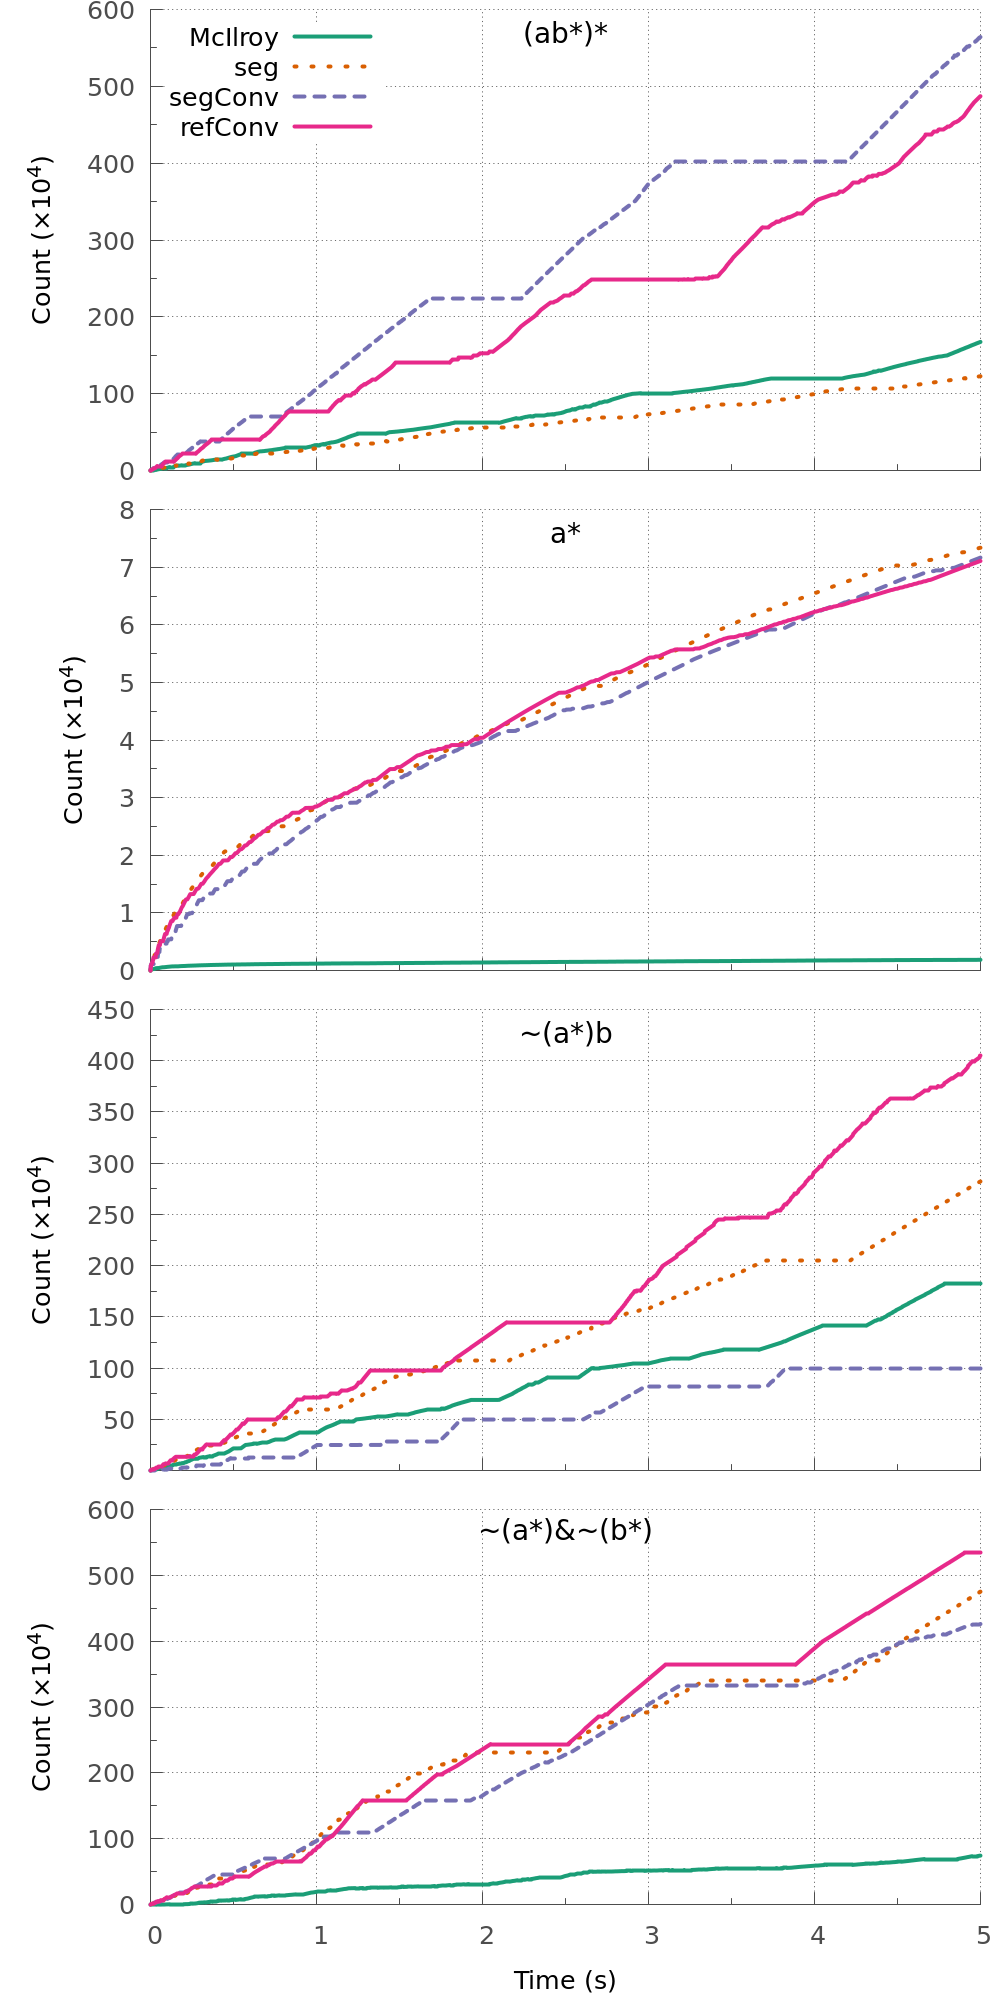
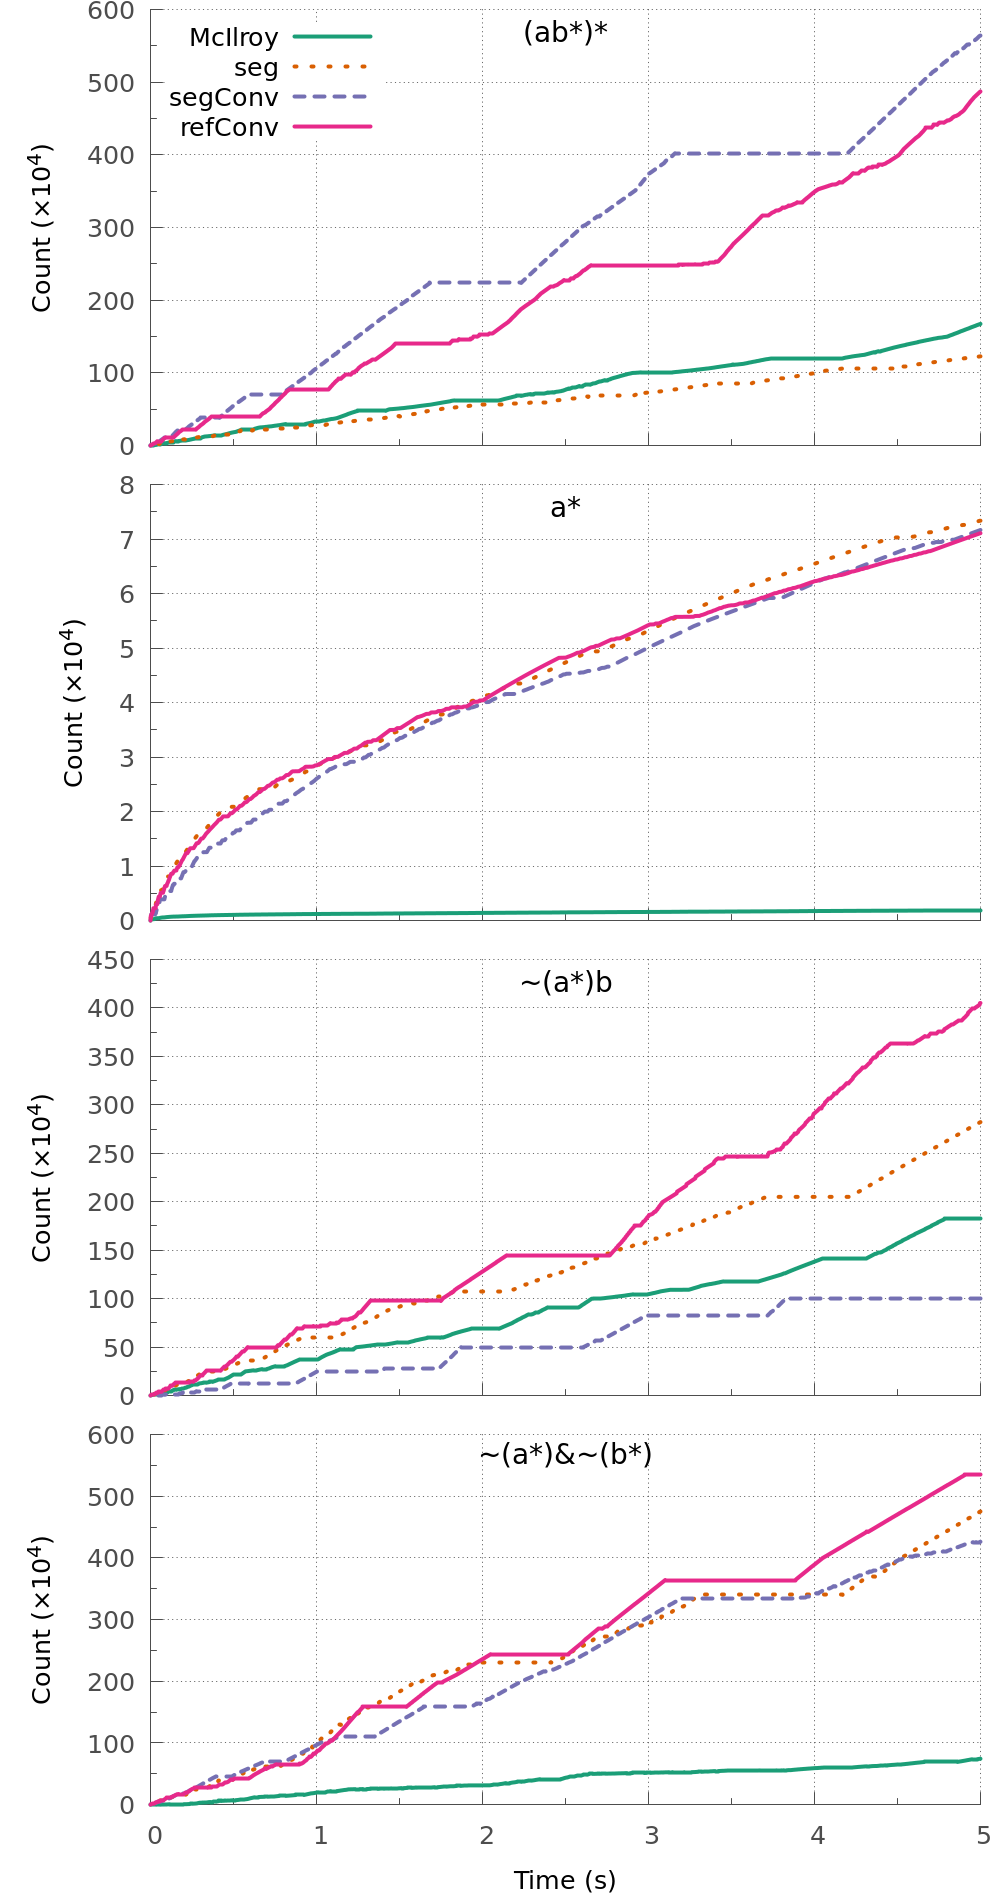
Make it fit.

diff --git a/ocaml.tex b/ocaml.tex
@@ -3,7 +3,7 @@
 
 \lstset{language=[Objective]Caml}
 
-We also implemented the complete
+We also implemented our
 language generation algorithm in \ocaml.
 % The \ocaml version only implements the ``latest'' version of the
 % algorithm with a segmented representation, fast backward lookup and convolutions
@@ -91,12 +91,12 @@ end
 \autoref{code:sigs:word} contains the signature for words.
 It provides
 the empty word (for \code{One}),
-singleton words (for \code{Atom}), and to append two words.
+singleton words (for \code{Atom}), and append.
 Neither an ordering nor a length operation is needed:
 Comparison is encapsulated in the segment
 data structure and the length of a word is the index of the segment in
 which it appears.
-
+%
 This signature is satisfied by the \ocaml \code{string}
 type (\ie arrays of bytes), arrays, lists of characters, or ropes. The
 type of individual characters is unrestricted.
@@ -106,8 +106,7 @@ type of individual characters is unrestricted.
 \autoref{code:sigs:segment} contains the signature for segments.
 % The first group of operations creates and tests for empty segments and
 % singleton segments. 
-The main requirement is to support the operations on power series as described in \autoref{sec:gener-cross-sect}.
-We also requires the set operations
+The main requirement is to support the operations on power series as described in \autoref{sec:gener-cross-sect} and the set operations
 \code{union}, \code{inter} and \code{inter}.
 %
 The product described in \autoref{eq:1} is decomposed in two parts:
@@ -119,7 +118,7 @@ The product described in \autoref{eq:1} is decomposed in two parts:
   by invocations of \code{append}.
 \end{itemize}
 %
-Experimentation with transient data-structures require s
+Experimentation with transient data-structures requires
 an explicit \code{memoize} function that avoids recomputing segments accessed
 multiple times. 
 %
@@ -317,7 +316,7 @@ over thunk lists by using a growing vector as cache.
 %
 Such a memoization function incurs a linear cost on enumerations. To test
 if this operation is worthwhile we implemented two modules:
-\code{ThunkList} where memoization is the identity and \code{ThunkListMemo}
+\code{ThunkList} without memoization and \code{ThunkListMemo}
 with the implementation described above.
 
 \paragraph{Lazy Lists}
@@ -338,8 +337,8 @@ We implemented a \code{LazyList} functor which is identical to
 
 As the main operations on segments are set operations, one might 
 expect a set implementation to perform well. We implemented segments as sets
-of words using \ocaml's built-in \code{Set} module. \ocaml sets are implemented
-using balanced binary trees.
+of words using \ocaml's built-in \code{Set} module which relies on
+balanced binary trees.
 The only operations not implemented by \ocaml's standard library are
 the n-way merge and the product.
 %, which can be implemented using folds and unions.
@@ -351,38 +350,29 @@ with a character and each node may contain a value. Tries are commonly used
 as maps from words to values where a word belongs to its domain if there is a
 path reaching a value labeled with the characters in the word.
 Tries seem well adapted to our problem:
-\begin{itemize}[leftmargin=*]
-\item As all words in a segment have the same length, we only need values at the leaves.
-  % As no prefixes need to be represented.
-\item The \code{append} operation on tries can be implemented by
-  grafting the second trie to all the leaves of the first one.
-\end{itemize}
-
+since all words in a segment have the same length, we only need values at the leaves.
+%   % As no prefixes need to be represented.
+% \item The \code{append} operation on tries can be implemented by
+%   grafting the second trie to all the leaves of the first one.
+% \end{itemize}
+%
 Hence, we can implement tries like tries of integers \cite{Okasaki98fastmergeable}.
 For simplicity, we do not use path compression, which means
 that branches are always labeled with one character.
-A trie is either \code{Empty}, a \code{Leaf} containing a value, or a \code{Node} containing a map from characters
+A trie is either \code{Empty}, a \code{Leaf} or a \code{Node} containing a map from characters
 to its child tries.
 % As we are only interested in the paths, we consider tries
 % without values. 
-
-\begin{lstlisting}
-type trie =
-  | Empty
-  | Leaf
-  | Node of trie CharMap.t
-\end{lstlisting}
-
+%
 % The implementation of most operations follows the literature.
 The only novel operation is \code{append} which computes the product of two sets.
-As we only store values at the leaves,
-it can be implemented in a single traversal which will graft the appended trie
-\code{t0} at each leaf of \code{t}, without copies.
+It can be implemented in a single traversal which grafts the
+appended trie \code{t0} at each leaf of \code{t}, without copies.
 
 \begin{lstlisting}
+type trie = Empty | Leaf | Node of trie CharMap.t
 let rec append t t0 = match t with
-  | Empty -> Empty
-  | Leaf -> t0
+  | Empty -> Empty | Leaf -> t0
   | Node map -> 
     CharMap.map (fun t' -> append t' t0) map
 \end{lstlisting}

diff --git a/motivation.tex b/motivation.tex
@@ -241,6 +241,7 @@ star lx@(x:xt) = if x == T.empty
   then star xt
   else T.empty : concatenate lx (star lx)
 \end{lstlisting}
+\vspace{-\baselineskip}
   \caption{McIlroy's implementation of regular operators}
   \label{fig:regular-operators-0}
 \end{figure}
@@ -298,6 +299,7 @@ complement sigma lx = difference lsigmastar lx
   where
     lsigmastar = star (map T.singleton sigma)
 \end{lstlisting}
+\vspace{-\baselineskip}
   \caption{Additional operations in McIlroy's framework}
   \label{fig:more-regular-operators}
 \end{figure}
@@ -398,6 +400,7 @@ concatenate lx ly = collect 0
     combine n i =
       liftA2 T.append (lx !! i) (ly !! (n - i))
 \end{lstlisting}
+\vspace{-\baselineskip}
       % [T.append x y 
       % | x <- lx !! i, y <- ]
   \caption{Concatenation for segment representation}
@@ -445,6 +448,7 @@ star lx = lstar
     combine n i =
       liftA2 T.append (lx !! i) (lstar !! (n - i))
 \end{lstlisting}
+\vspace{-\baselineskip}
     % combine n i =
     %   [T.append x y 
     %   | x <- lx !! i, y <- lstar !! (n - i)]
@@ -467,6 +471,7 @@ complement sigma lx = difference lsigmastar lx
     extend lsigmai =
       [T.cons a w | a <- sigma, w <- lsigmai]
 \end{lstlisting}
+\vspace{-\baselineskip}
   \caption{Complementation for the segment representation}
   \label{fig:llo-complement}
 \end{figure}

diff --git a/bench.tex b/bench.tex
@@ -83,7 +83,7 @@ We stop the iteration after 5 seconds.
 The resulting graph plots the time (x-axis) against the number of words (y-axis) produced so far. The slope of the graph indicates the generation speed of the plotted algorithm, high slope is correlated to high generation speed.  \cref{bench:haskell:all} contains the results for the Haskell implementations.
  
 Most algorithms generate between $1.3\cdot10^3$ and $1.4\cdot10^6$ words in the first
-second, which seems more than sufficient for testing purposes.
+second, which seems sufficient for testing purposes.
 The \textbf{refConv} implementation
 which uses symbolic segments and convolutions is consistently in the
 leading group.

diff --git a/improvements.tex b/improvements.tex
@@ -25,6 +25,7 @@ concatenate'' lx ly = collect ly []
         $ zipWith (liftA2 T.append) lx rly')
       : collect ysegs rly'
 \end{lstlisting}
+\vspace{-\baselineskip}
   \caption{Concatenation with convolution}
   \label{fig:concatenation-with-convolution}
 \end{figure}
